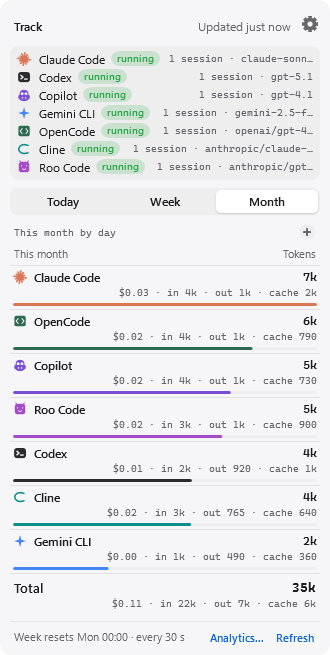
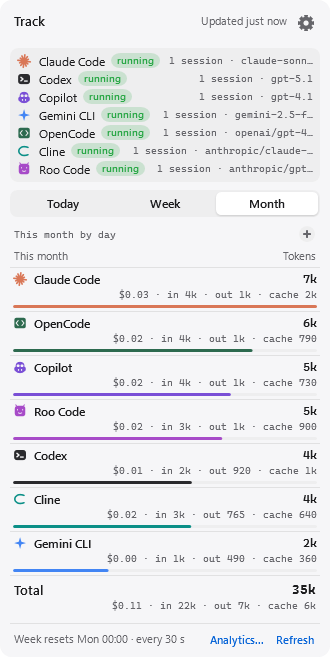
Fix popover header alignment

diff --git a/src/Track.App/Shell/PopoverWindow.xaml b/src/Track.App/Shell/PopoverWindow.xaml
@@ -59,29 +59,31 @@
     <Border x:Name="Surface" Background="{DynamicResource PopBg}" CornerRadius="12" Padding="10">
         <StackPanel>
             <!-- Header -->
-            <Grid Margin="4,4,0,8" Height="24">
-                <TextBlock Text="Track" FontSize="12" FontWeight="SemiBold" VerticalAlignment="Center" />
-                <StackPanel Orientation="Horizontal" HorizontalAlignment="Right" VerticalAlignment="Center">
-                    <TextBlock Text="{Binding UpdatedText}" Style="{StaticResource Small}" FontSize="12"
-                               VerticalAlignment="Center" Margin="0,0,5,0" />
-                    <Button Style="{StaticResource HeaderIconButton}" Margin="0,-4,-4,0"
-                            ToolTip="Settings" AutomationProperties.Name="Settings" Click="Settings_Click">
-                        <Path Fill="{Binding Foreground, RelativeSource={RelativeSource AncestorType=Button}}"
-                              Width="16" Height="16" Stretch="Uniform">
-                            <Path.Data>
-                                <CombinedGeometry GeometryCombineMode="Exclude">
-                                    <CombinedGeometry.Geometry1>
-                                        <PathGeometry Figures="M 9.95,3.75 L 9.35,1.33 L 14.65,1.33 L 14.05,3.75 L 16.38,4.72 L 17.66,2.57 L 21.43,6.34 L 19.29,8.13 L 20.24,9.95 L 22.66,9.34 L 22.66,14.66 L 20.24,14.05 L 19.29,15.87 L 21.43,17.66 L 17.66,21.43 L 16.38,19.29 L 14.05,20.24 L 14.66,22.66 L 9.34,22.66 L 9.95,20.24 L 7.62,19.29 L 6.34,21.43 L 2.57,17.66 L 4.72,15.87 L 3.75,14.05 L 1.34,14.66 L 1.34,9.34 L 3.75,9.95 L 4.72,8.13 L 2.57,6.34 L 6.34,2.57 L 7.62,4.72 Z" />
-                                    </CombinedGeometry.Geometry1>
-                                    <CombinedGeometry.Geometry2>
-                                        <EllipseGeometry Center="12,12" RadiusX="3.5" RadiusY="3.5" />
-                                    </CombinedGeometry.Geometry2>
-                                </CombinedGeometry>
-                            </Path.Data>
-                        </Path>
-                    </Button>
-                </StackPanel>
-            </Grid>
+            <DockPanel Margin="4,2,4,8" Height="28">
+                <Button DockPanel.Dock="Right" Style="{StaticResource HeaderIconButton}" Margin="0,-6,-4,0"
+                        ToolTip="Settings" AutomationProperties.Name="Settings" Click="Settings_Click">
+                    <Path Fill="{Binding Foreground, RelativeSource={RelativeSource AncestorType=Button}}"
+                          Width="16" Height="16" Stretch="Uniform">
+                        <Path.Data>
+                            <CombinedGeometry GeometryCombineMode="Exclude">
+                                <CombinedGeometry.Geometry1>
+                                    <PathGeometry Figures="M 9.95,3.75 L 9.35,1.33 L 14.65,1.33 L 14.05,3.75 L 16.38,4.72 L 17.66,2.57 L 21.43,6.34 L 19.29,8.13 L 20.24,9.95 L 22.66,9.34 L 22.66,14.66 L 20.24,14.05 L 19.29,15.87 L 21.43,17.66 L 17.66,21.43 L 16.38,19.29 L 14.05,20.24 L 14.66,22.66 L 9.34,22.66 L 9.95,20.24 L 7.62,19.29 L 6.34,21.43 L 2.57,17.66 L 4.72,15.87 L 3.75,14.05 L 1.34,14.66 L 1.34,9.34 L 3.75,9.95 L 4.72,8.13 L 2.57,6.34 L 6.34,2.57 L 7.62,4.72 Z" />
+                                </CombinedGeometry.Geometry1>
+                                <CombinedGeometry.Geometry2>
+                                    <EllipseGeometry Center="12,12" RadiusX="3.5" RadiusY="3.5" />
+                                </CombinedGeometry.Geometry2>
+                            </CombinedGeometry>
+                        </Path.Data>
+                    </Path>
+                </Button>
+                <TextBlock DockPanel.Dock="Right" Text="{Binding UpdatedText}" Style="{StaticResource Small}" FontSize="11"
+                           VerticalAlignment="Center" Margin="0,-6,5,0">
+                    <TextBlock.RenderTransform>
+                        <TranslateTransform Y="-3" />
+                    </TextBlock.RenderTransform>
+                </TextBlock>
+                <TextBlock Text="Track" FontWeight="SemiBold" />
+            </DockPanel>
 
             <!-- What is running -->
             <Border Background="{DynamicResource RowBg}" CornerRadius="8" Padding="4" Margin="0,0,0,8"

diff --git a/plans/track-providers-appearance-analytics.md b/plans/track-providers-appearance-analytics.md
@@ -203,7 +203,7 @@ Each phase ends with `scripts\test.ps1` green (100 % gate) and one commit. Commi
 ### Phase 8: Post-review UI corrections and integration. Status: In progress
 - [x] T-17a: Refine Behavior and align Appearance, Providers and Behavior to the same compact grouped-row design; refresh and inspect all six theme/page renders.
 - [x] T-17b: Apply the shared themed controls to Analytics and its preset/date/calendar popups; render and inspect Light/Dark states.
-- [x] T-17c: Replace the Unicode gear with a filled vector cog; keep the button borderless and accessible, align the title/status row, and refresh tight header plus full-popover renders in both themes.
+- [x] T-17c: Replace the Unicode gear with a filled vector cog; keep the button borderless and accessible, preserve the original Track title placement, align Updated to the gear center, and refresh tight header plus full-popover renders in both themes.
 - [x] T-17d: Re-run the Release build and `scripts\test.ps1`, including the 100% Core coverage gate, after the final vector/header change and upstream merge.
 - [ ] T-17e: Reproduce the Analytics controls and a live theme switch in the running WPF app. Blocked in this execution because the approved Computer Use server is absent from the available tool resources; do not substitute shell-driven UI automation.
 - [x] T-17f: Merge freshly fetched `upstream/main` into the feature branch, resolve conflicts preserving installer and feature behavior, and confirm the PR diff remains feature-only relative to upstream `main`.
@@ -258,8 +258,9 @@ Each phase ends with `scripts\test.ps1` green (100 % gate) and one commit. Commi
 | 2026-11-20 | T-15d | Completed final documentation/version updates and reviewed the fabricated Settings, picker, dropdown, Analytics, provider-card, popover, island and tray-icon after renders. Refreshed the Settings and Analytics images after the visual fixes. Confirmed render data had no `settings.json`, snapshot or alert-state writes. Re-ran `scripts/demo-home.ps1` twice against the same synthetic home and confirmed the OpenCode fixture remained at two rows. `dotnet build Track.slnx -c Release` succeeded (0 warnings/errors); `scripts\\test.ps1` passed 689 tests at 100% Core line/branch/method coverage. | Did not observe native Acrylic/Mica on this host. Analytics image is a representative normal viewport; seven sessions are present in the fabricated summary, with four rows visible before scroll. |
 | 2026-11-20 | T-16 | Pushed `oliverseges-providers-appearance-analytics` to `origin` and opened [katsSeges/track#2](https://github.com/katsSeges/track/pull/2) with feature sections, before/after image links, test results, limitations and follow-ups. Verified the installer commit is not an ancestor of the feature branch. `gh pr checks` reports no checks for the branch. | Did not merge the upstream PR. Feature-to-fork-main push remains held pending image review/release. |
 | 2026-11-20 | T-17a–T-17d | Refreshed and inspected Appearance, Providers and Behavior in Light/Dark, Analytics Light/Dark with preset dropdown/custom range/calendar popups, and popover gear Light/Dark. Coordinator reviewed the six Settings renders and cleared the image hold. `dotnet build Track.slnx -c Release` succeeded with 0 warnings/errors; `scripts\\test.ps1` passed 689 tests with 100% Core line/branch/method coverage. Gear images are `docs/images/pr/after/popover/popover-week-light.png` and `docs/images/pr/after/popover/popover-week-dark.png`; the six Settings images are under `docs/images/pr/after/`. | Computer Use resources were unavailable in the current tool catalog, so the separately requested actual-running-app Analytics audit and live theme switch were not run. Render images are illustrative and do not establish native material behavior. |
-| 2026-11-20 | T-17c | Replaced the Unicode symbol with a filled vector cog bound to the button's muted foreground; retained the 28×28 borderless keyboard-accessible target, tooltip/action and hover/focus triggers. The header now uses a fixed-height grid so Track and Updated share alignment while the cog sits higher/right. Refreshed and inspected tight header images `docs/images/pr/after/popover/gear-header-{light,dark}.png` and full popover images in both themes. Release build succeeded with 0 warnings/errors. | Full Core coverage is being rerun after the XAML-only change and upstream merge. |
+| 2026-11-20 | T-17c | Replaced the Unicode symbol with a filled vector cog bound to the button's muted foreground; retained the borderless keyboard-accessible target, tooltip/action and hover/focus triggers. An intermediate centered-grid layout lowered the title and was rejected; the final geometry correction is recorded below. Initial tight header and full-popover renders were regenerated in both themes. | The initial centering attempt was superseded by the original-title-position correction below. |
 | 2026-11-20 | T-17d/T-17f | Merged `upstream/main` (`9ed9b12`) with conflict resolution in `docs/release-notes/v1.2.0.md`, retaining both feature and installer notes; README and DEVELOPMENT auto-merges retain both feature and installer documentation. Merge commit `661d48a` has merge-base `9ed9b12`; the three-dot PR diff has 410 files, 0 installer paths and 0 upstream `v1.1.1` release-note paths. Release build succeeded with 0 warnings/errors; `scripts\\test.ps1` passed 697 tests at 100% Core line/branch/method coverage. | The actual running-app Analytics audit and live theme switch remain not run because no approved Computer Use tool is available. |
+| 2026-11-20 | T-17c final geometry correction | Restored the Track title's original typography and placement. Pixel bounds in both themes match the original baseline: Track y=16–25; Updated y=17–27 (center 22) now aligns with the gear y=15–30 (center 22.5). Refreshed tight `gear-header-{light,dark}.png` crops and full `popover-week-{light,dark}.png` renders. Release build succeeded with 0 warnings/errors; `scripts\\test.ps1` passed 697 tests at 100% Core line/branch/method coverage. | Coordinator requested this correction after rejecting the intermediate lowered-title render; latest evidence is published for review. |
 
 ## Resume instructions
 
